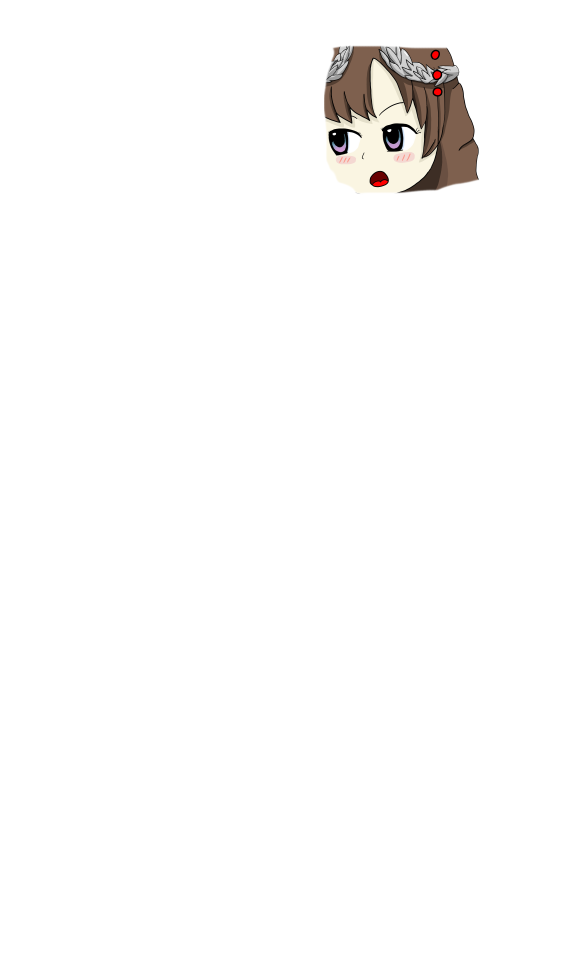
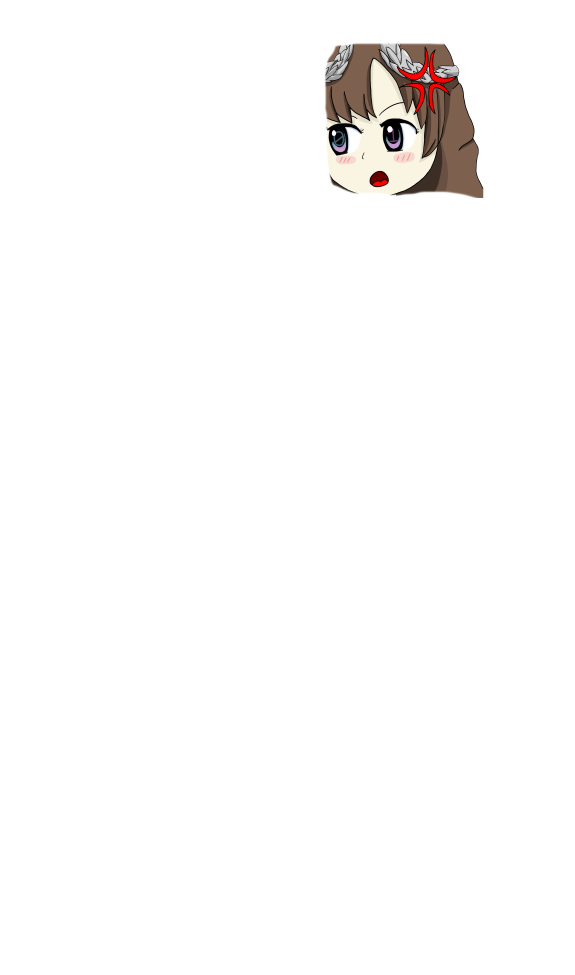
update binhacks + face01an.png

diff --git a/th15.v1.00b.js b/th15.v1.00b.js
@@ -1,5 +1,5 @@
 {
-  "binhacks": {
+	"binhacks": {
 	"Global_var_chapter_retry_counter": {
 		"addr": "0x42ef0a",
 		"expected": "A1 F8734E00",
@@ -23,36 +23,26 @@
 // 803D 04744E00 00\
 // 75 C9\
 // EB DD\
-// ",
+//",
 		},
-		
-	}
+	"EscapingSnakesColor": {
+		"addr": "0x004095B0",
+		"code": "E9 5A490B00 <nop>"
+		},
+	"NewCodeSnakesColor": {
+		"addr": "0x4BDF0F",
+		"code": "C706 000070FF\
+83FA 08\
+0F8D A8B6F4FF\
+8ACA\
+0C FF\
+90\
+C0E1 05\
+2AC1\
+8846 01\
+E9 96B6F4FF\
+90\
+",
+		},
+    }
 }
-// "C705 98444E00 03000000\
-// EB 14\
-// 803D 04744E00 02\
-// 75 19\
-// 90\
-// C705 98444E00 04000000\
-// 8B4CC2 50\
-// A1 809A4E00\
-// E9 8DACF7FF\
-// 803D 04744E00 00\
-// 75 C9\
-// EB DD\
-// "
-1er:
-EAX : 0C43F84C
-
-ESI: 10AF02F0
-
-2ème: 
-EAX : 05F6F770
-
-
-
-ESI 0C4700CC
-
-
-
-
